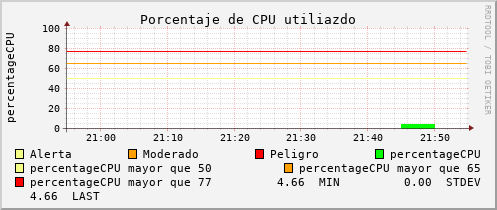
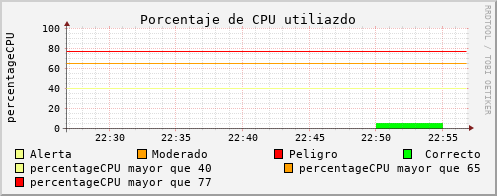
P2 - Modificacion de grafica

diff --git a/P2/utilidades/graphRRD.py b/P2/utilidades/graphRRD.py
@@ -9,7 +9,7 @@ def graph(title,name,dispName,describe, umbral=[75,50,25]):
     # Grafica desde el tiempo actual menos diez minutos
     ultima_lectura = int(rrdtool.last('./baseD/' + dispName + ".rrd"))
     tiempo_final = ultima_lectura
-    tiempo_inicial = tiempo_final - 3600
+    tiempo_inicial = tiempo_final - 1800
 
     ret = rrdtool.graph("./graph/"+name+dispName+".png",
                         "--start", str(tiempo_inicial),
@@ -30,7 +30,7 @@ def graph(title,name,dispName,describe, umbral=[75,50,25]):
                         "HRULE:" + str(umbral[1]) + "#FF9F00:Moderado",
                         "HRULE:" + str(umbral[0]) + "#FF0000:Peligro",
 
-                        "AREA:carga#00FF00:" + name,
+                        "AREA:carga#00FF00: Correcto",
 
                         "CDEF:umbral3=carga," + str(umbral[2]) + ",LT,0,carga,IF",
                         "AREA:umbral3#f3ff87:" + name + " mayor que " + str(umbral[2]),
@@ -41,10 +41,7 @@ def graph(title,name,dispName,describe, umbral=[75,50,25]):
                         "CDEF:umbral1=carga," + str(umbral[0]) + ",LT,0,carga,IF",
                         "AREA:umbral1#FF0000:" + name + " mayor que " + str(umbral[0]),
 
-                        "PRINT:cargaLAST:%6.2lf",
-                        "GPRINT:cargaMIN:%6.2lf %SMIN",
-                        "GPRINT:cargaSTDEV:%6.2lf %SSTDEV",
-                        "GPRINT:cargaLAST:%6.2lf %SLAST")
+                        "PRINT:cargaLAST:%6.2lf")
 
     ultimo_valor = float(ret[2][0])
     status = 0

diff --git a/P2/utilidades/reporte.py b/P2/utilidades/reporte.py
@@ -18,7 +18,7 @@ def mostrarDispositivos(file, mostrar):
     file_dispR.close()
     return dispositivos
 
-def crearReport(file, umbral=[[77,65,50],[90,75,50],[95,75,30]], numFile=None, postName="", mostrar=True):
+def crearReport(file, umbral=[[77,65,40],[85,75,50],[90,75,30]], numFile=None, postName="", mostrar=True):
     dispositivos = mostrarDispositivos(file, mostrar)
     if(numFile==None):
         print("Elige el dispositivo que deseas consultar: ", end='')
